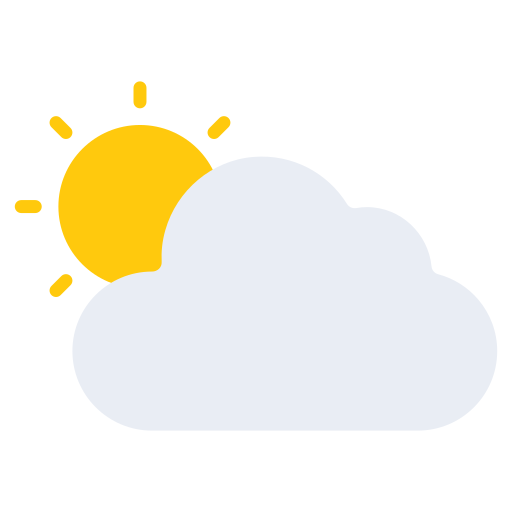
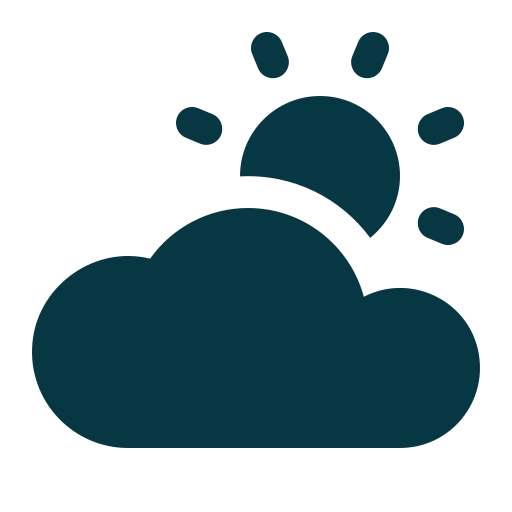
myweatherapp redesign

diff --git a/myweatherapp/src/App.js b/myweatherapp/src/App.js
@@ -16,7 +16,7 @@ function App() {
 
   useEffect(() => {
     async function loadDataAPI() {
-      var rawResponse = await fetch(`https://api.openweathermap.org/data/2.5/weather?q=${city}&lang=fr&units=metric&appid=a6e3eaa80322d67999b7ac143be3fddb`);
+      var rawResponse = await fetch(`https://api.openweathermap.org/data/2.5/weather?q=${city}&lang=en&units=metric&appid=a6e3eaa80322d67999b7ac143be3fddb`);
       var response = await rawResponse.json();
       setTemp(Math.floor(response.main.temp));
       setIcon(`http://openweathermap.org/img/wn/${response.weather[0].icon}.png`)
@@ -27,17 +27,20 @@ function App() {
       setPressure(response.main.pressure);
       setHumidity(response.main.humidity);
 
-      if(response.weather[0].description === "ciel dégagé"){
+      if(response.weather[0].main === "Clear"){
         setIcon('../assets/sun.png')
-      } else if(response.weather[0].description === "légère pluie" || response.weather[0].description === 'petites averses' || response.weather[0].description === 'averses de pluie'){
+      } else if(response.weather[0].main === "Thunderstorm"){
+        setIcon('../assets/thunderstorm.png')
+      } else if(response.weather[0].main === "Drizzle"){
         setIcon('../assets/rain.png')
-      } else if(response.weather[0].description === "peu nuageux" || response.weather[0].description === 'nuageux' || response.weather[0].description === 'couvert'){
+      } else if(response.weather[0].main === "Clouds"){
         setIcon('../assets/cloud.png')
-      } else if(response.weather[0].description === "pluie modérée"){
-        setIcon('../assets/cloudy.png')
-      }
-      else if(response.weather[0].description === "partiellement nuageux"){
-        setIcon('../assets/partly-cloudy.png')
+      } else if(response.weather[0].main === "Snow"){
+        setIcon('../assets/snowflake.png')
+      } else if(response.weather[0].main === "Rain"){
+        setIcon('../assets/rain.png')
+      } else if(response.weather[0].main === "Mist"){
+        setIcon('../assets/mist.png')
       }
     }
     loadDataAPI();

diff --git a/myweatherapp/src/App.css b/myweatherapp/src/App.css
@@ -29,7 +29,7 @@ p {
 .box_weather_now {
   width: 350px;
   height: 350px;
-  border: 4px solid #fff;
+  border: 4px solid #083744;
   border-radius: 50px;
   position: absolute;
   top: 0;
@@ -75,6 +75,10 @@ p {
 .city{
   font-size: 150%;
   font-weight: bolder;
+}
+
+.city::first-letter{
+  text-transform: capitalize;
 }
 
 .city_and_time {
